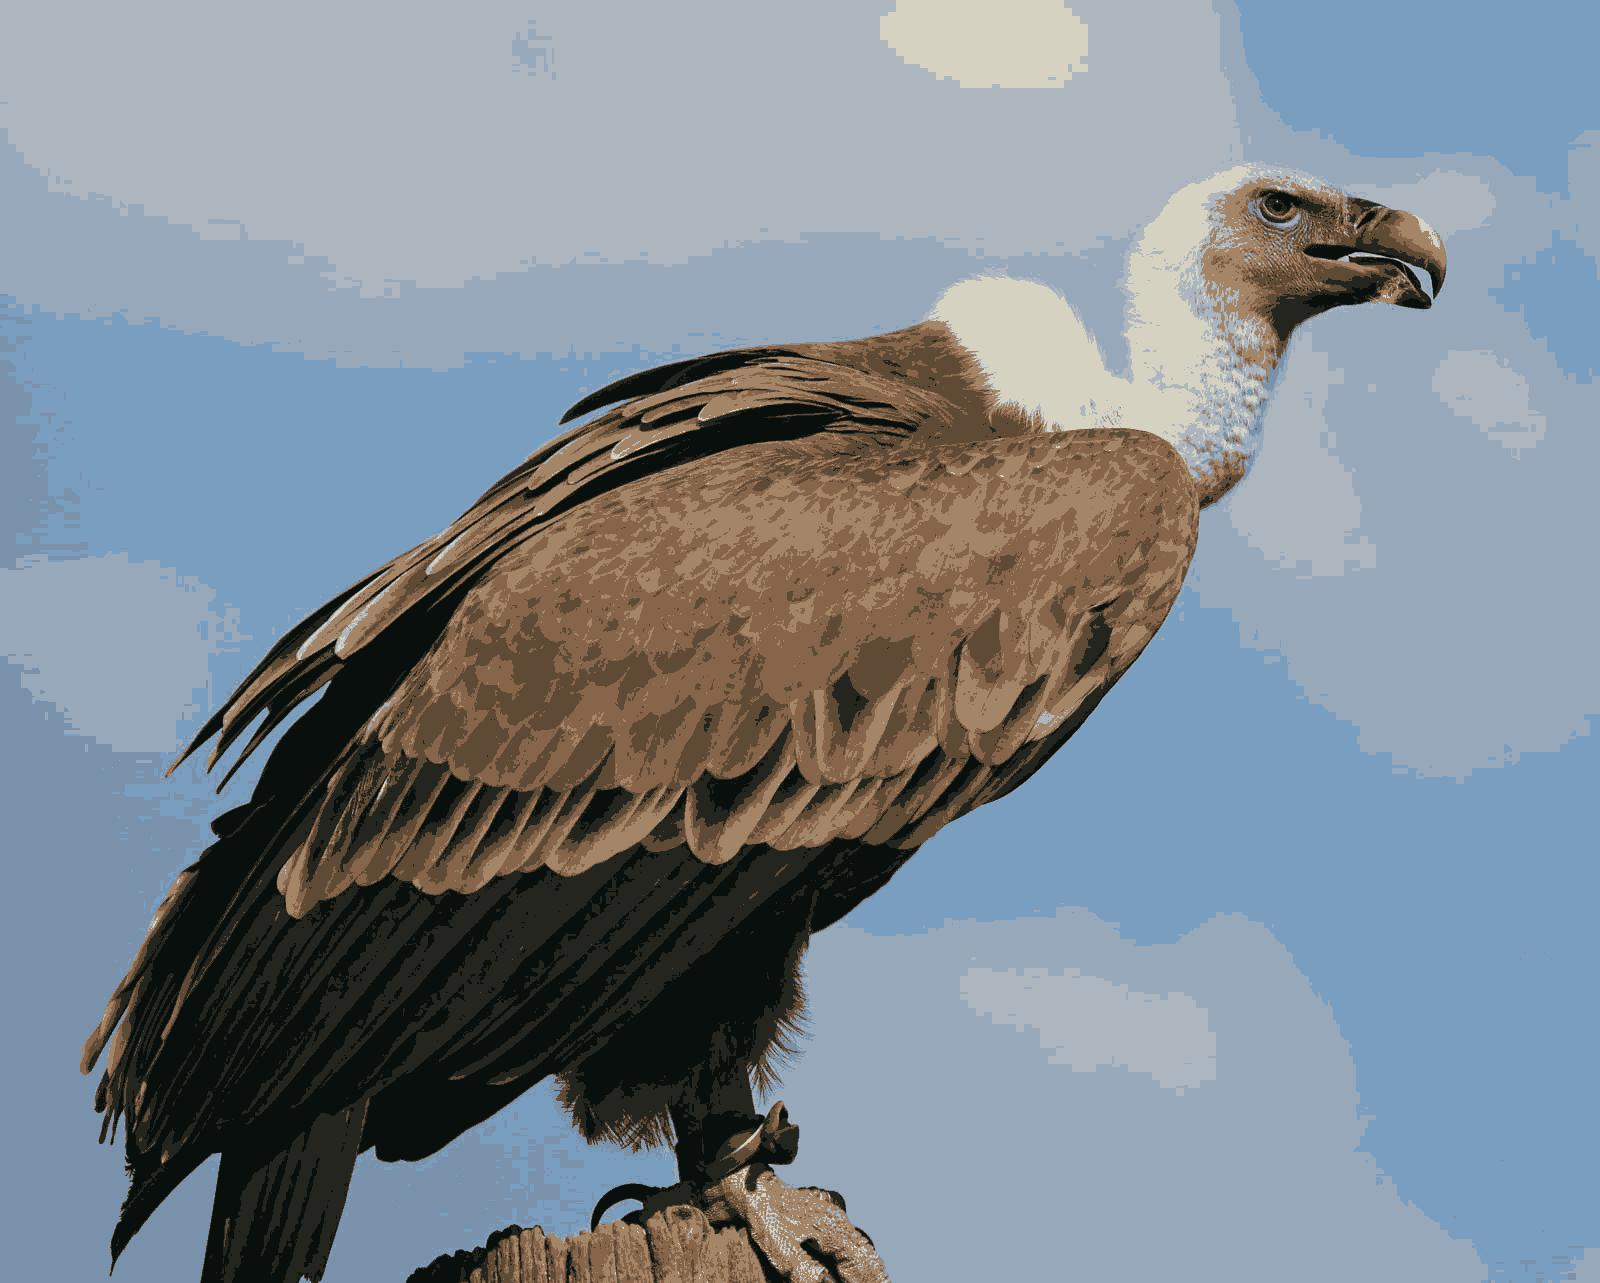
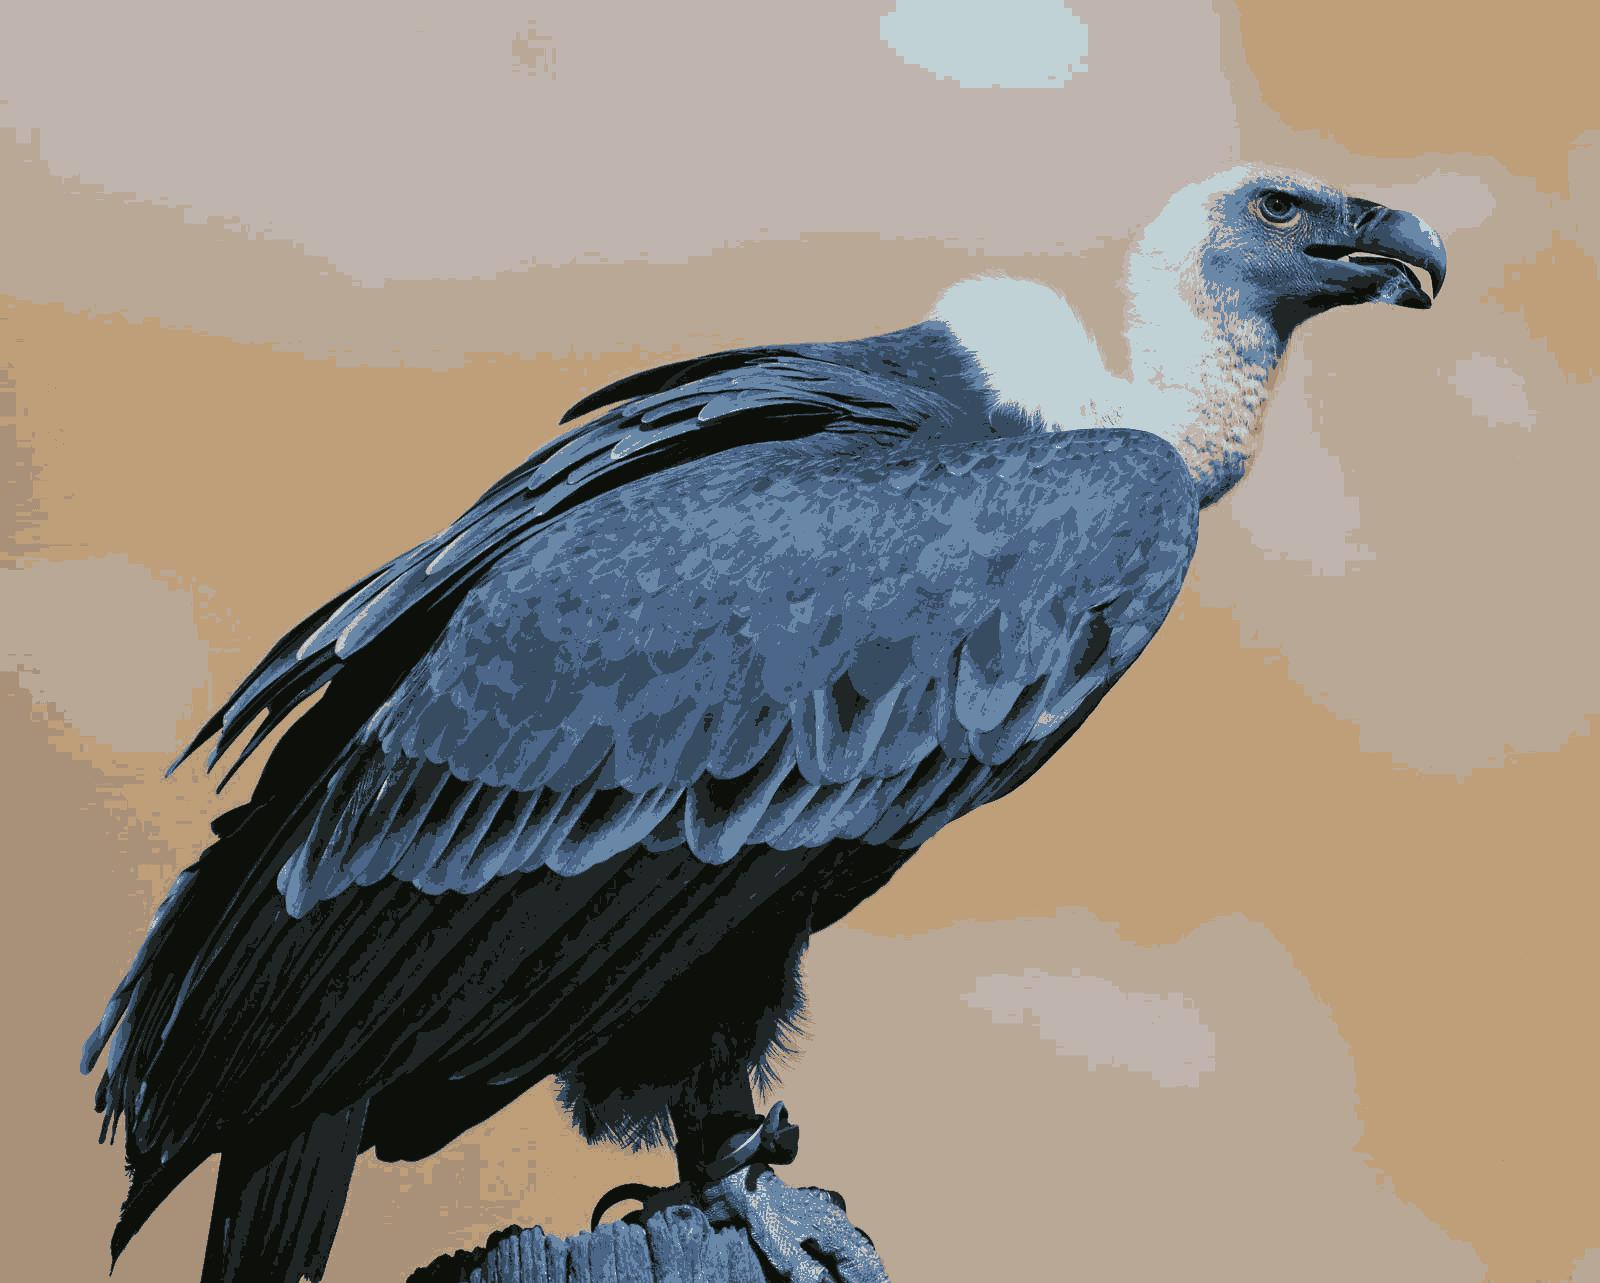
Updated commit

diff --git a/Contours.py b/Contours.py
@@ -31,17 +31,36 @@ def find_colour_pal(compressed_image):
 
     return palette
 
+def plot_histogram(imag):
+    plt.hist(imag.ravel(), 256) #Histogram is not bimodal so we can not use Otsu's thresholding.
+    plt.xlabel("Pixel Value")
+    plt.ylabel("Frequency")
+    plt.title("Histogram for input image")
+    plt.show()
+
+
+def plot_image(image, title, map="gray"):
+    plt.imshow(image, cmap=map)
+    plt.xticks([])
+    plt.yticks([])
+    plt.title(title)
+    plt.show()
+
 
 def kmeans(clusters):
-    file_name = "mia"
+    file_name = "paul"
     file_path = str("InputImages/" + file_name + ".jpg")
 
     #Read the image
-    imag = Image.open(file_path)
-    imshow(imag)
+    #imag = Image.open(file_path)
+    imag = cv2.imread(file_path)
+    plot_image(image=cv2.cvtColor(imag, cv2.COLOR_BGR2RGB), title="Original Image")
+    #plot_histogram(imag)
 
     #Dimension of the original image
-    cols, rows = imag.size
+    #cols, rows = imag.size
+    rows, cols, _ = imag.shape
+
 
     #Flatten the image
     imag = np.array(imag).reshape(rows*cols, 3)
@@ -68,7 +87,6 @@ def kmeans(clusters):
     return compressed_image, palette
 
 
-
 def auto_canny(image, sigma=0.5):
     # compute the median of the single channel pixel intensities
     v = np.median(image)
@@ -76,18 +94,43 @@ def auto_canny(image, sigma=0.5):
     lower = int(max(0, (1.0 - sigma) * v))
     upper = int(min(255, (1.0 + sigma) * v))
     edged = cv2.Canny(image, lower, upper)
-
     return edged
 
 
+def blend_outputs(outline):
+    alpha = 0.4 #This is the amount of the coloured image we include. 0 is none.
+    beta = 1 - alpha
+    compressed_image = imread("OutputImages/paul10Clustered.jpg")
+    compressed_image = cv2.cvtColor(compressed_image, cv2.COLOR_BGR2RGB)
+
+    outline = np.concatenate([outline[..., np.newaxis]] * 3, axis=2)
+    output = cv2.addWeighted(outline, beta, compressed_image, alpha, 0.0)
+
+    plt.imshow(output)
+    plt.title("Blended")
+    plt.xticks([])
+    plt.yticks([])
+    plt.show()
+
 def canny(img):
-    original_img = cv2.cvtColor(img, cv2.COLOR_BGR2GRAY)
+    compressed_img = cv2.cvtColor(img, cv2.COLOR_BGR2GRAY) #imread reads images as Blue, Green, Red, Alpha
+    plot_image(image=cv2.cvtColor(img, cv2.COLOR_BGR2RGB), title="Compressed")
 
-    blurred = cv2.GaussianBlur(original_img, (15, 15), sigmaX=1)
+    k = 15
+    blurred = cv2.GaussianBlur(compressed_img, (k, k), sigmaX=(k-1)/6)
+    plot_image(image=blurred, title="Blurred", map="gray")
 
-    edged = auto_canny(blurred)
-    edged = cv2.dilate(edged, (5, 5), iterations=1)
-    edged = cv2.erode(edged, (5, 5), iterations=1)
+    th3 = cv2.adaptiveThreshold(blurred, 255, cv2.ADAPTIVE_THRESH_GAUSSIAN_C, cv2.THRESH_BINARY, 25, 3)
+    th3 = cv2.morphologyEx(th3, cv2.MORPH_CLOSE, (9, 9))
+
+    blend_outputs(th3)
+    plot_image(th3, title="Threshold Gray")
+
+    th3 = cv2.bitwise_not(th3)
+
+    edged = auto_canny(th3)
+    edged = cv2.dilate(edged, (20, 20), iterations=1)
+    edged = cv2.erode(edged, (20, 20), iterations=1)
 
     contours, hierarchy = cv2.findContours(edged, cv2.RETR_CCOMP, cv2.CHAIN_APPROX_NONE)
 
@@ -97,21 +140,15 @@ def canny(img):
 
     final_contours = []
     for contour in contours:
-        if cv2.contourArea(contour) > 50:
+        if cv2.contourArea(contour) > 40:
             final_contours.append(contour)
             pass
         else:
             pass
 
     temp_array = np.ones([rgb.shape[0], rgb.shape[1], rgb.shape[2]])
-    contours_ = cv2.drawContours(temp_array, final_contours, -1, (0, 0, 0), thickness=1)
-    plt.imshow(contours_)
-    plt.show()
-
-
-
-
-
+    contours_ = cv2.drawContours(temp_array, final_contours, -1, (0, 0, 0), thickness=3)
+    plot_image(contours_, title="Contours")
 
     # fig, ((ax1, ax2), (ax3, ax4)) = plt.subplots(2, 2)
     # lines0 = cv2.drawContours(rgb, contours, 0, (0, 0, 0), 3)
@@ -144,5 +181,5 @@ def canny(img):
     return rgb
 
 
-img, palette = kmeans(int(5))
+img, palette = kmeans(int(10))
 canny(img)
